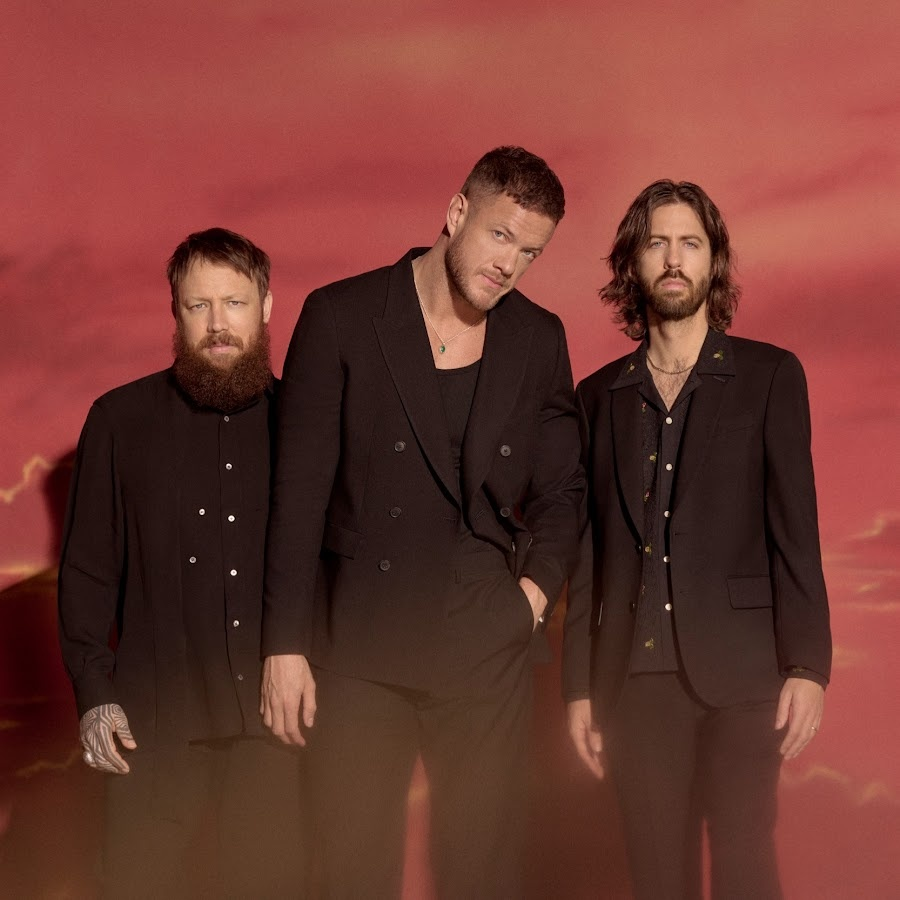
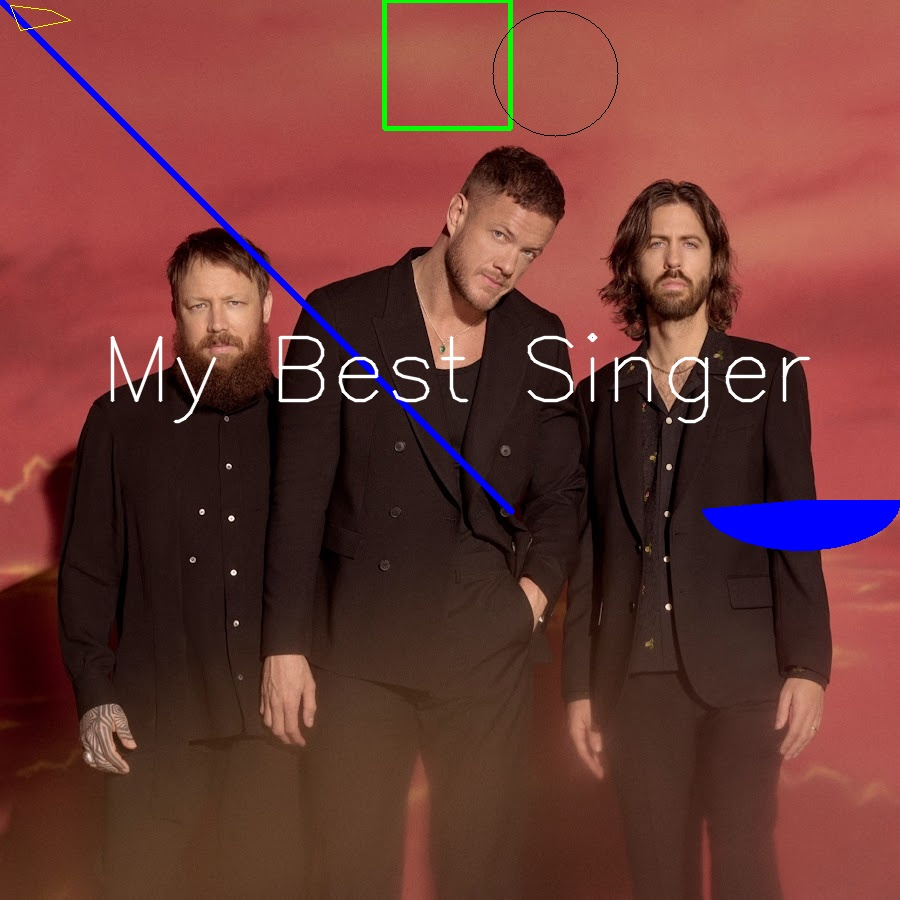
change text coordinate

diff --git a/opencv1.py b/opencv1.py
@@ -9,7 +9,7 @@ pts = np.array([[10,5],[20,30],[70,20],[50,10]], np.int32)
 pts = pts.reshape([-1,1,2])
 cv2.polylines(img,[pts],True,(0,255,255))
 font = cv2.FONT_HERSHEY_SIMPLEX
-cv2.putText(img,'My Best Singer',(10,400), font, 3,(255,255,255),2,cv2.LINE_AA)
+cv2.putText(img,'My Best Singer',(100,400), font, 3,(255,255,255),2,cv2.LINE_AA)
 
 cv2.imshow("image",img)
 cv2.waitKey(0)
